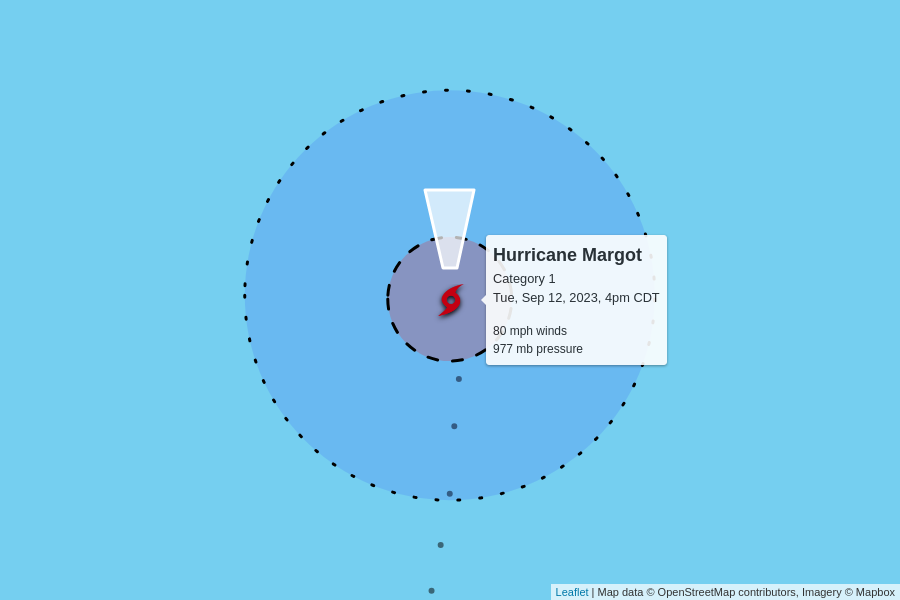
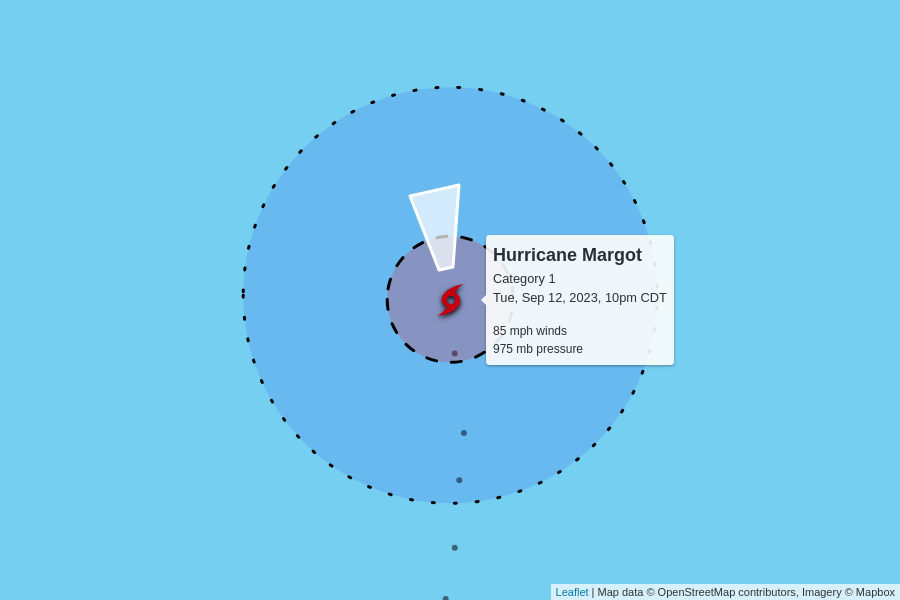
automatic update

diff --git a/docs/index.html b/docs/index.html
@@ -104,7 +104,7 @@
         <td colspan="6" class="storm category-3" >
           <h2>
             Hurricane Lee - Category 3
-            <p class="updated">last updated <span data-time>2023-09-13T00:00:00.000Z</span></p>
+            <p class="updated">last updated <span data-time>2023-09-13T03:00:00.000Z</span></p>
           </h2>
         </td>
       </tr>
@@ -124,7 +124,7 @@
         <td>
           7 mph to the northwest
           <br/>
-          <span style="display: inline-block; font-size: 1.5em; transform: rotate(315deg);">↑</span>
+          <span style="display: inline-block; font-size: 1.5em; transform: rotate(320deg);">↑</span>
         </td>
         <td><a href="https://raw.githubusercontent.com/mgwalker/atlantic-hurricanes/main/data/csv/AL132023.csv">AL132023.csv</a></td>
         <td><a href="https://www.nhc.noaa.gov/archive/2023/LEE.shtml?">NHC advisories</a></td>
@@ -148,7 +148,7 @@
         <td colspan="6" class="storm category-1" >
           <h2>
             Hurricane Margot - Category 1
-            <p class="updated">last updated <span data-time>2023-09-12T21:00:00.000Z</span></p>
+            <p class="updated">last updated <span data-time>2023-09-13T03:00:00.000Z</span></p>
           </h2>
         </td>
       </tr>
@@ -163,12 +163,12 @@
       </tr>
       <tr>
         <td class="spacer"></td>
-        <td>80 mph<br>-5 mph since last update</td>
-        <td>977 mb<br>+2 mb since last update</td>
+        <td>85 mph<br>+5 mph since last update</td>
+        <td>975 mb<br>-2 mb since last update</td>
         <td>
-          14 mph to the north
+          12 mph to the north
           <br/>
-          <span style="display: inline-block; font-size: 1.5em; transform: rotate(360deg);">↑</span>
+          <span style="display: inline-block; font-size: 1.5em; transform: rotate(350deg);">↑</span>
         </td>
         <td><a href="https://raw.githubusercontent.com/mgwalker/atlantic-hurricanes/main/data/csv/AL142023.csv">AL142023.csv</a></td>
         <td><a href="https://www.nhc.noaa.gov/archive/2023/MARGOT.shtml?">NHC advisories</a></td>
